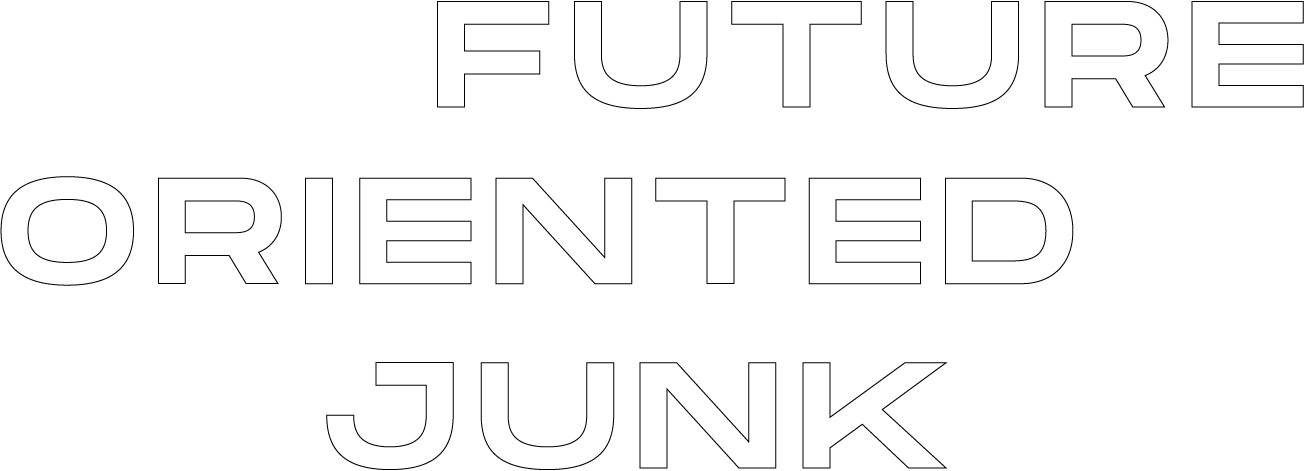
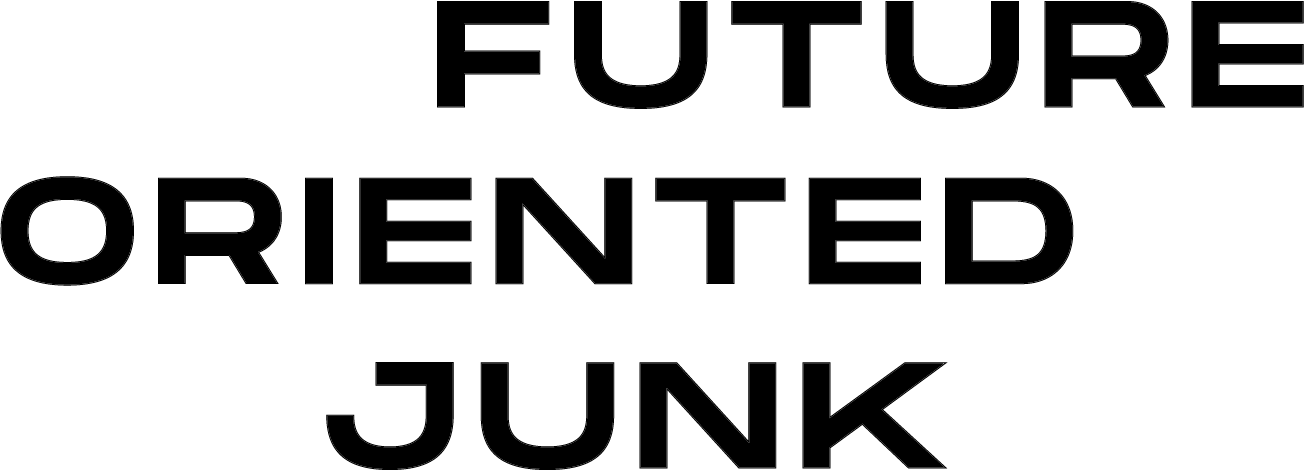
update terbaru 28/04/2020

Changed region(s): [[0.0, 0.3567, 0.8276, 0.6242], [0.3372, 0.0, 1.0, 0.2378], [0.2452, 0.7728, 0.7356, 1.0]]

diff --git a/index.html b/index.html
@@ -24,6 +24,7 @@
   <link href="assets/vendor/remixicon/remixicon.css" rel="stylesheet">
   <link href="assets/vendor/owl.carousel/assets/owl.carousel.min.css" rel="stylesheet">
   <link href="assets/vendor/aos/aos.css" rel="stylesheet">
+  <link rel="stylesheet" href="https://maxcdn.bootstrapcdn.com/bootstrap/3.4.1/css/bootstrap.min.css">
 
   <!-- Template Main CSS File -->
   <link href="assets/css/style.css" rel="stylesheet">
@@ -53,6 +54,7 @@
           <li class="active"><a href="#header"><b>HOME</b></a></li>
           <li><a href="#about"><b>FUTURE-ORIENTED JUNK</b></a></li>
           <li><a href="#features"><b>EVENTS</b></a></li>
+          <li><a href="#gallery"><b>TRIPO TRIBE</b></a></li>
           <li><a href="#contact"><b>CONTACT</b></a></li>
           <li><input type="text" name="search" class="" id="search" style="display: none;"></li>
           <li><a onclick="BtnSearch();" id="searchBtn"><img src="assets/img/search.png" width="100%"></a></li>
@@ -108,19 +110,40 @@
 
     <!-- ======= About Section ======= -->
     <section id="about" class="about">
-      <div class="container-fluid">
+      <div class="container">
+        <div class="grid-container">
+          <div class="item3">
+             <div class="section-title" data-aos="fade-right" >
+              <br><br><br><br>
+              <br><br><br><br>
+              <h1>&nbsp;&nbsp;&nbsp;&nbsp;FUTURE</h1>
+              <h1>ORIENTED</h1>
+              <h1>&nbsp;&nbsp;&nbsp;&nbsp;JUNK</h1>
+            </div>
+          </div>  
+          <div class="item4" data-aos="fade-left">
+            <img src="assets/img/gambar.jpg" width="" height="" ><br><br><p align="justify">Tripo 3000 is a <b>multi award-winning event organizer</b> since 2008. Started as Tripomatica in Melbourne, re-branded as Tripo 3000 in 2014.</p><br><p align="justify">Tripo 3000 consistently brings ideas ahead of its time, give avant-garde experiences and element of surprise to events. Future-Oriented Junk planted in every production.</p>
+          </div>
+          <div class="item5" style="text-align: left;">
+            <a href="#" data-aos="fade-down"><img src="assets/img/Back.png" width="100px"></a>
+          </div>
+        </div>
 
-        <table border="0" class="content-table">
+        <!-- <table border="1" class="content-table" style="padding: 1px;">
           <tbody>
             <tr>
-              <td><img src="assets/img/Future.png" width="100%" height="100%"></td>
-              <td align="fixed-top" width="70px"><img src="assets/img/gambar.jpg" width="" height=""><br><br><p align="justify">Tripo 3000 is a <b>multi award-winning event organizer</b> since 2008. Started as Tripomatica in Melbourne, re-branded as Tripo 3000 in 2014.</p><br><p align="justify">Tripo 3000 consistently brings ideas ahead of its time, give avant-garde experiences and element of surprise to events. Future-Oriented Junk planted in every production.</p></td>
+              <td class="fade-left">
+                <div>
+                  
+                </div>
+                <h1 ">FUTURE<br>ORIENTED<br>JUNK</h1></td>
+              <td align="fixed-top" width="70px" class="fade-right"><img src="assets/img/gambar.jpg" width="" height="" ><br><br><br><p align="justify">Tripo 3000 is a <b>multi award-winning event organizer</b> since 2008. Started as Tripomatica in Melbourne, re-branded as Tripo 3000 in 2014.</p><br><p align="justify">Tripo 3000 consistently brings ideas ahead of its time, give avant-garde experiences and element of surprise to events. Future-Oriented Junk planted in every production.</p></td>
             </tr>
             <tr>
               <td class="col-xl-7 col-lg-6 icon-boxes d-flex flex-column align-items-stretch justify-content-center py-5 px-lg-5" data-aos="fade-left"><a href="#" data-aos="fade-up"><img src="assets/img/Back.png" width="100px"></a></td>
             </tr>
           </tbody>
-        </table>
+        </table> -->
 
       </div>
     </section>
@@ -296,12 +319,12 @@
     <!-- End Gallery Section -->
 
     <!-- ======= Contact Section ======= -->
-    <section id="contact" class="contact">
-      <div class="container">
+    <section id="contact"  class="contact">
+      <div class="container" >
 
-        <div class="section-title" data-aos="fade-up">
-          <h2>Contact</h2>
-          <p>Contact Us</p>
+        <div class="section-title" data-aos="fade-up" >
+          <h1>CON</h1>
+          <h1>TACT</h1>
         </div>
 
         <div class="row">
@@ -340,14 +363,12 @@
           </div>
 
           <div class="col-lg-6" data-aos="fade-right" data-aos-delay="100">
-            ``<div id="warped" style="text-align: left;">
+<!--             ``<div id="warped" style="text-align: left;">
                      <span class='w0'>I</span><span class='w1'>f</span><span class='w2'> </span><span class='w3'>y</span><span class='w4'>o</span><span class='w5'>u</span><span class='w6'> </span><span class='w7'>h</span><span class='w8'>a</span><span class='w9'>v</span><span class='w10'>e</span><span class='w11'> </span><span class='w12'>a</span><span class='w13'>n</span><span class='w14'>y</span><span class='w15'> </span><span class='w16'>q</span><span class='w17'>u</span><span class='w18'>e</span><span class='w19'>s</span><span class='w20'>t</span><span class='w21'>i</span><span class='w22'>o</span><span class='w23'>n</span><span class='w24'>s</span><span class='w25'> </span><span class='w26'>o</span><span class='w27'>r</span><span class='w28'> </span><span class='w29'>s</span><span class='w30'>i</span><span class='w31'>m</span><span class='w32'>p</span><span class='w33'>l</span><span class='w34'>y</span><span class='w35'> </span><span class='w36'>w</span><span class='w37'>a</span><span class='w38'>n</span><span class='w39'>t</span><span class='w40'> </span><span class='w41'>t</span><span class='w42'>o</span><span class='w43'> </span><span class='w44'>s</span><span class='w45'>a</span><span class='w46'>y</span><span class='w47'> </span><span class='w48'>h</span><span class='w49'>i</span><span class='w50'>
                      </span><span class='w51'>
                      </span>
-              </div>
-            <label style="margin: auto;"><b>W I B I</b></label>
-            <hr style="border: 1px solid; margin: auto; width: 50%; ">
-            <label><b>wibi@tripo3000.com</b></label><br>
+              </div> -->
+            <label><h3><u style="margin-top: 1px;">hello@tripo3000.com</u></h3></label>
             <table style="width: 600px;">
               <thead>
                 <tr>
@@ -412,6 +433,8 @@
 
   <!-- Template Main JS File -->
   <script src="assets/js/main.js"></script>
+  <script src="https://ajax.googleapis.com/ajax/libs/jquery/3.4.1/jquery.min.js"></script>
+  <script src="https://maxcdn.bootstrapcdn.com/bootstrap/3.4.1/js/bootstrap.min.js"></script>
 
   <script src="https://code.jquery.com/jquery-3.5.0.js" integrity="sha256-r/AaFHrszJtwpe+tHyNi/XCfMxYpbsRg2Uqn0x3s2zc=" crossorigin="anonymous"></script>
   <script type="text/javascript">

diff --git a/assets/css/style.css b/assets/css/style.css
@@ -123,7 +123,7 @@ h1, h2, h3, h4, h5, h6 {
 
 #header.header-scrolled {
   background: rgb(255, 220, 22);
-  height: 70px;
+  height: 60px;
 
 }
 
@@ -186,7 +186,6 @@ h1, h2, h3, h4, h5, h6 {
   content: "";
   position: absolute;
   width: 0;
-  height: 2px;
   bottom: 3px;
   left: 25px;
   background-color: #1acc8d;
@@ -196,13 +195,16 @@ h1, h2, h3, h4, h5, h6 {
 }
 
 .nav-menu a:hover:before, .nav-menu li:hover > a:before, .nav-menu .active > a:before {
-  visibility: visible;
+  background-color: #ddd;
+  color: black;
   width: 25px;
 }
 
 .nav-menu a:hover, .nav-menu .active > a, .nav-menu li:hover > a {
+  padding: 10px;
+  border-radius: 3em / 3em;
+  background-color: white;
   color: black;
-  text-decoration: none;
 }
 
 .nav-menu .drop-down ul {
@@ -412,9 +414,10 @@ h1, h2, h3, h4, h5, h6 {
 
 #hero h1 {
   margin: 0 0 20px 0;
-  font-size: 48px;
+  font-size: 50px;
   font-weight: 700;
   line-height: 56px;
+  font-family: "Montserrat", sans-serif;
   color: black;
 }
 
@@ -616,6 +619,26 @@ section {
   overflow: hidden;
 }
 
+.item3 { grid-area: main; }
+.item4 { grid-area: right; }
+.item5 { grid-area: footer; }
+
+.grid-container {
+  display: grid;
+  grid-template-areas:
+    'main main main right right'
+    'footer footer footer footer footer';
+  grid-gap: 1px;
+  padding: 10px;
+}
+
+.grid-container > div {
+  background-color: rgba(255, 255, 255, 0.8);
+  text-align: center;
+  padding: 20px 0;
+  font-size: 14px;
+}
+
 .section-bg {
   background-color: #c9e619;
 }
@@ -624,22 +647,21 @@ section {
   padding-bottom: 40px;
 }
 
-.section-title h2 {
-  font-size: 14px;
-  font-weight: 500;
+.section-title h1 {
+  margin: 0 0 40px 0;
+  font-size: 90px;
+  font-weight: 400;
+  line-height: 40px;
+  font-family: "Monument", sans-serif;
+  color: black;
   padding: 0;
-  line-height: 1px;
-  margin: 0 0 5px 0;
   letter-spacing: 2px;
   text-transform: uppercase;
-  color: black;
-  font-family: "Poppins", sans-serif;
 }
 
-.section-title h2::after {
+.section-title h1::after {
   content: "";
-  width: 120px;
-  height: 1px;
+  width: 100px;
   display: inline-block;
   background: #1acc8d;
   margin: 4px 10px;
@@ -1359,12 +1381,12 @@ section {
 # Contact
 --------------------------------------------------------------*/
 .contact{
-  background: rgb(255, 220, 22);
+  background: rgb(255, 255, 255);
 }
 
 .contact .info {
   width: 100%;
-  background: rgb(255, 220, 22);
+  background: rgb(255, 225, 255);
 }
 
 .contact .info i {
@@ -1407,7 +1429,7 @@ section {
 
 .contact .php-email-form {
   width: 100%;
-  background: rgb(255, 220, 22);
+  background: rgb(255, 255, 255);
 }
 
 .contact .php-email-form .form-group {
@@ -1476,12 +1498,10 @@ section {
 
 .contact .php-email-form button[type="submit"] {
   background: rgb(255, 220, 22);
-  border: 1;
-  border-color: black;
   padding: 10px 30px;
   color: #fff;
   transition: 0.4s;
-  border-radius: 30px;
+  border-radius: 50px;
 }
 
 .contact .php-email-form button[type="submit"]:hover {
